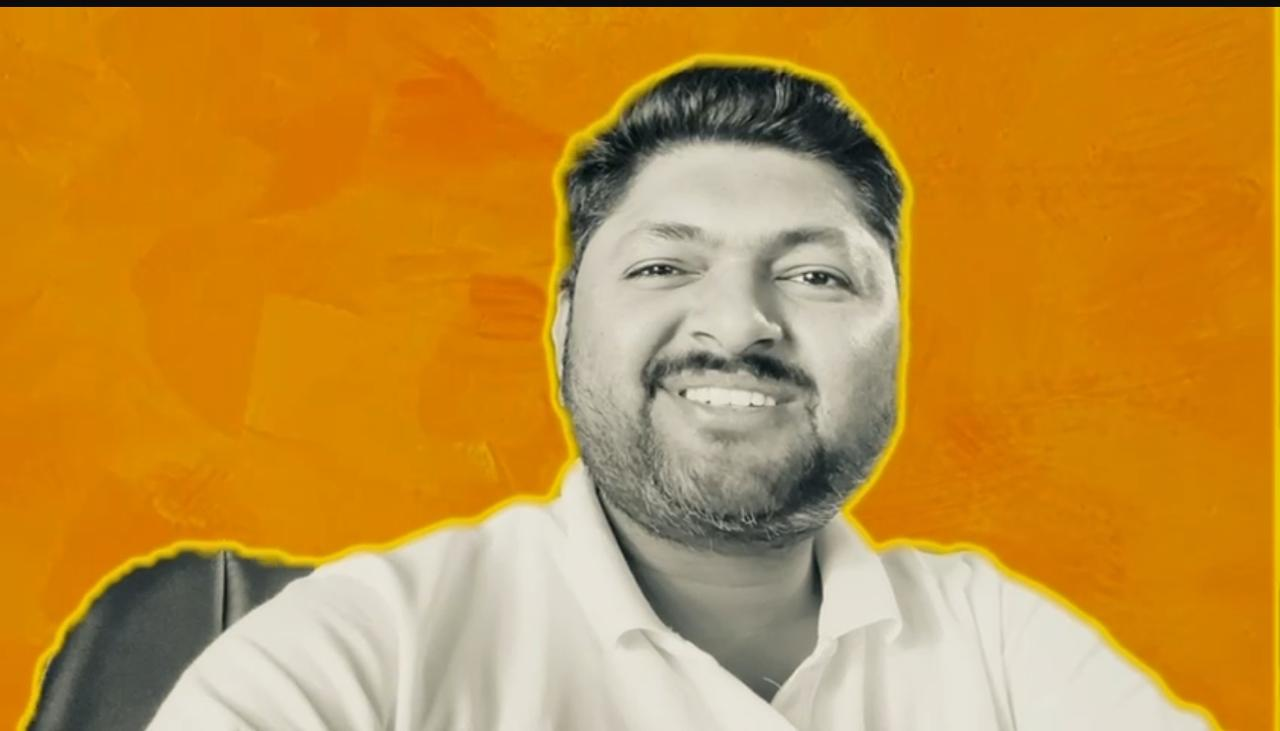
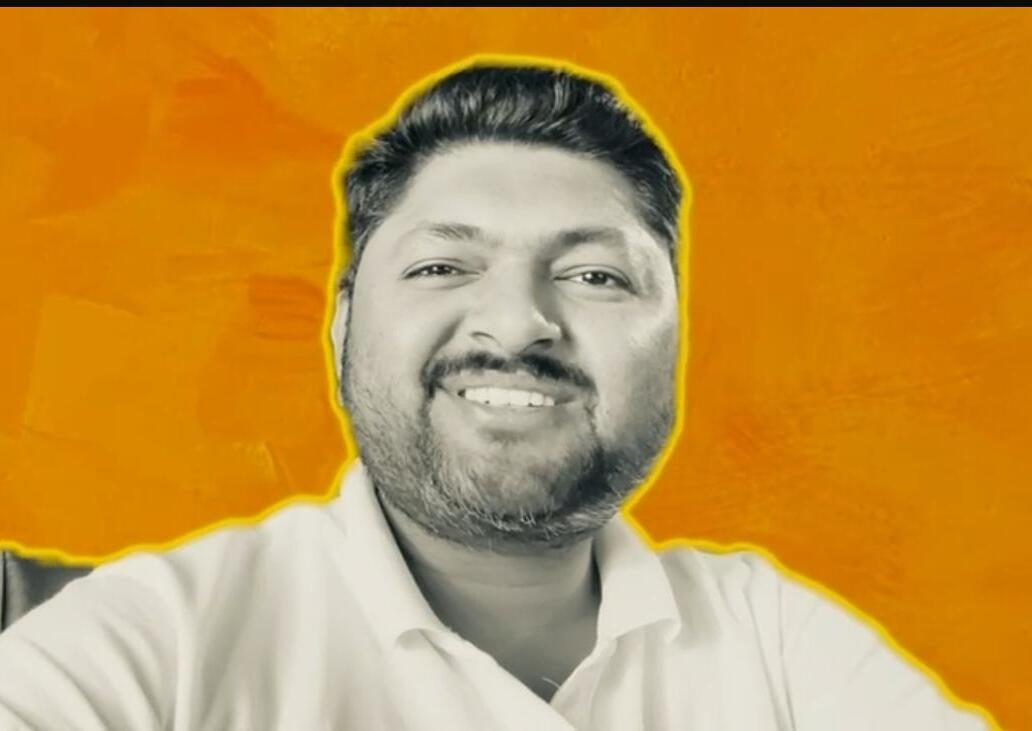
:art: updated the profile pic and added laravel as main skill

diff --git a/src/components/sections/about-me.tsx b/src/components/sections/about-me.tsx
@@ -1,12 +1,12 @@
-import Image from 'next/image';
+import Image from "next/image";
 
-import SagarFullPose from '/public/images/ronak-about-me.jpeg';
-import Tag from '@/components/data-display/tag';
-import Container from '@/components/layout/container';
-import Typography from '@/components/general/typography';
-import Link from '@/components/navigation/link';
-import { EXTERNAL_LINKS } from '@/lib/data';
-import { calculateExperience } from '@/lib/utils';
+import SagarFullPose from "/public/images/ronak-about-me.jpeg";
+import Tag from "@/components/data-display/tag";
+import Container from "@/components/layout/container";
+import Typography from "@/components/general/typography";
+import Link from "@/components/navigation/link";
+import { EXTERNAL_LINKS } from "@/lib/data";
+import { calculateExperience } from "@/lib/utils";
 
 const AboutMeSection = () => {
   return (
@@ -23,7 +23,7 @@ const AboutMeSection = () => {
               src={SagarFullPose}
               alt="Fullpose of Sagar"
               className="absolute z-10 h-[360px] w-[280px] border-8 border-gray-50 max-md:left-5 md:right-0 md:top-0 md:h-[420px] md:w-[340px] lg:h-[480px] lg:w-[400px]"
-              style={{ objectFit: 'cover' }}
+              style={{ objectFit: "cover" }}
             ></Image>
             <div className="absolute h-[360px] w-[320px] border-8 border-transparent bg-gray-200 max-md:top-5 md:bottom-0 md:left-0 md:h-[420px] md:w-[340px] lg:h-[480px] lg:w-[400px]"></div>
           </div>
@@ -35,14 +35,19 @@ const AboutMeSection = () => {
             Curious about me? Here you have it:
           </Typography>
           <Typography>
-            I&apos;m a passionate,{' '}
-            who specializes in full stack development (React.js & Node.js). I am
-            enthusiastic about bringing the technical and visual aspects of
-            digital products to life. User experience, pixel perfect design, and
-            writing clear, readable, highly performant code matters to me.
+            I&apos;m a passionate, who specializes in full stack development
+            (Laravel & React). I am enthusiastic about bringing the technical
+            and visual aspects of digital products to life. User experience,
+            pixel perfect design, and writing clear, readable, highly performant
+            code matters to me.
           </Typography>
           <Typography>
-          I began my journey as a web developer in 2015, and over the past {calculateExperience()} years, I&apos;ve continuously grown, taking on new challenges and staying up to date with the latest technologies. Today, I&apos;m building cutting-edge web applications using modern technologies like Next.js, Express.js, NestJS, Material UI, MySQL, MongoDB, and more.
+            I began my journey as a web developer in 2015, and over the past{" "}
+            {calculateExperience()} years, I&apos;ve continuously grown, taking
+            on new challenges and staying up to date with the latest
+            technologies. Today, I&apos;m building cutting-edge web applications
+            using modern technologies like Laravel, React, Next.js, Express.js,
+            NestJS, Material UI, MySQL, MongoDB, and more.
           </Typography>
           <Typography>
             I am very much a progressive thinker and enjoy working on products

diff --git a/src/components/sections/hero.tsx b/src/components/sections/hero.tsx
@@ -1,11 +1,11 @@
-import Image from 'next/image';
-import { MapPin } from 'lucide-react';
+import Image from "next/image";
+import { MapPin } from "lucide-react";
 
-import SagarHeadshot from '/public/images/ronak-profile-picture.jpeg';
-import SocialIcons from '@/components/data-display/social-icons';
-import Typography from '@/components/general/typography';
-import Container from '@/components/layout/container';
-import { calculateExperience } from '@/lib/utils';
+import SagarHeadshot from "/public/images/ronak-profile-picture.png";
+import SocialIcons from "@/components/data-display/social-icons";
+import Typography from "@/components/general/typography";
+import Container from "@/components/layout/container";
+import { calculateExperience } from "@/lib/utils";
 
 const HeroSection = () => {
   return (
@@ -17,8 +17,8 @@ const HeroSection = () => {
             <Image
               src={SagarHeadshot}
               alt="Headshot of Sagar"
-              className="absolute z-10 h-[280px] w-[240px] border-8 border-gray max-md:left-5 md:left-0 md:top-0 md:h-[320px] md:w-[280px]"
-              style={{ objectFit: 'cover' }}
+              className="absolute z-10 h-[280px] w-[240px] border-8 border-gray bg-gray-200 max-md:left-5 md:left-0 md:top-0 md:h-[320px] md:w-[280px]"
+              style={{ objectFit: "cover" }}
             ></Image>
             <div className="absolute h-[280px] w-[280px] border-8 border-transparent bg-gray-200 max-md:top-5 md:bottom-0 md:right-0 md:h-[320px] md:w-[280px]"></div>
           </div>
@@ -28,14 +28,15 @@ const HeroSection = () => {
         <div className="flex max-w-3xl flex-grow flex-col justify-center gap-8 md:order-first md:items-start md:justify-center 2xl:gap-12">
           <div className="flex flex-col gap-2">
             <Typography variant="h1">
-              Hi, I&apos;m Ronak{' '}
+              Hi, I&apos;m Ronak{" "}
               <span className="inline-block animate-waving-hand">👋</span>
             </Typography>
             <Typography>
-              I&apos;m a full stack developer (React.js & Node.js) with a focus
-              on creating exceptional digital experiences that are fast, accessible, visually appealing, and
-              responsive. Even though I have been creating web applications for
-              over {calculateExperience()} years, I still love it as if it was something new.
+              I&apos;m a full stack developer (Laravel & React) with a focus on
+              creating exceptional digital experiences that are fast,
+              accessible, visually appealing, and responsive. Even though I have
+              been creating web applications for over {calculateExperience()}{" "}
+              years, I still love it as if it was something new.
             </Typography>
           </div>
           <div className="flex flex-col gap-2">

diff --git a/src/lib/data.tsx b/src/lib/data.tsx
@@ -75,6 +75,11 @@ export const SOCIAL_LINKS = [
 
 export const TECHNOLOGIES: TechDetails[] = [
   {
+    label: "Laravel",
+    logo: LogoLaravel,
+    url: "https://laravel.com/",
+  },
+  {
     label: "Javascript",
     logo: LogoJavascript,
     url: "https://developer.mozilla.org/en-US/docs/Web/JavaScript",
@@ -195,11 +200,6 @@ export const TECHNOLOGIES: TechDetails[] = [
     label: "Strapi",
     logo: LogoStrapi,
     url: "https://strapi.io/",
-  },
-  {
-    label: "Laravel (Basic)",
-    logo: LogoLaravel,
-    url: "https://laravel.com/",
   },
   {
     label: "Git",
